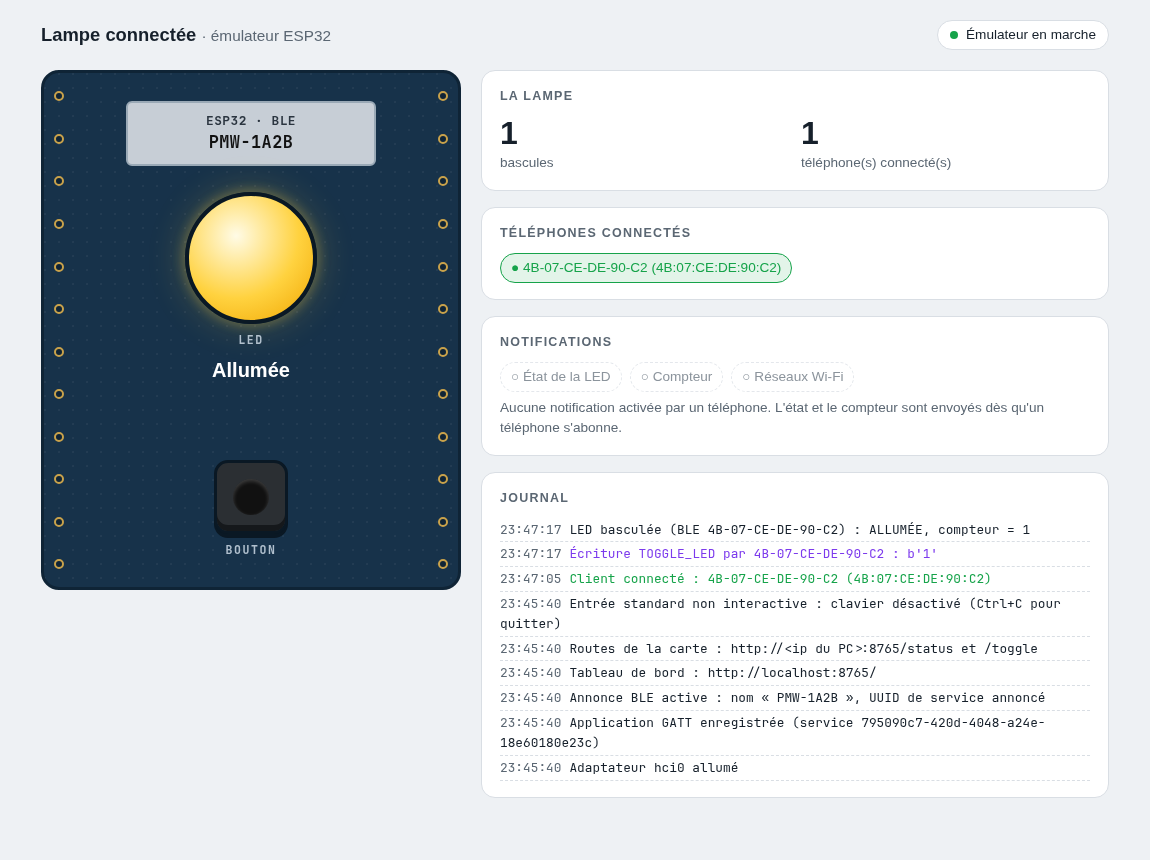
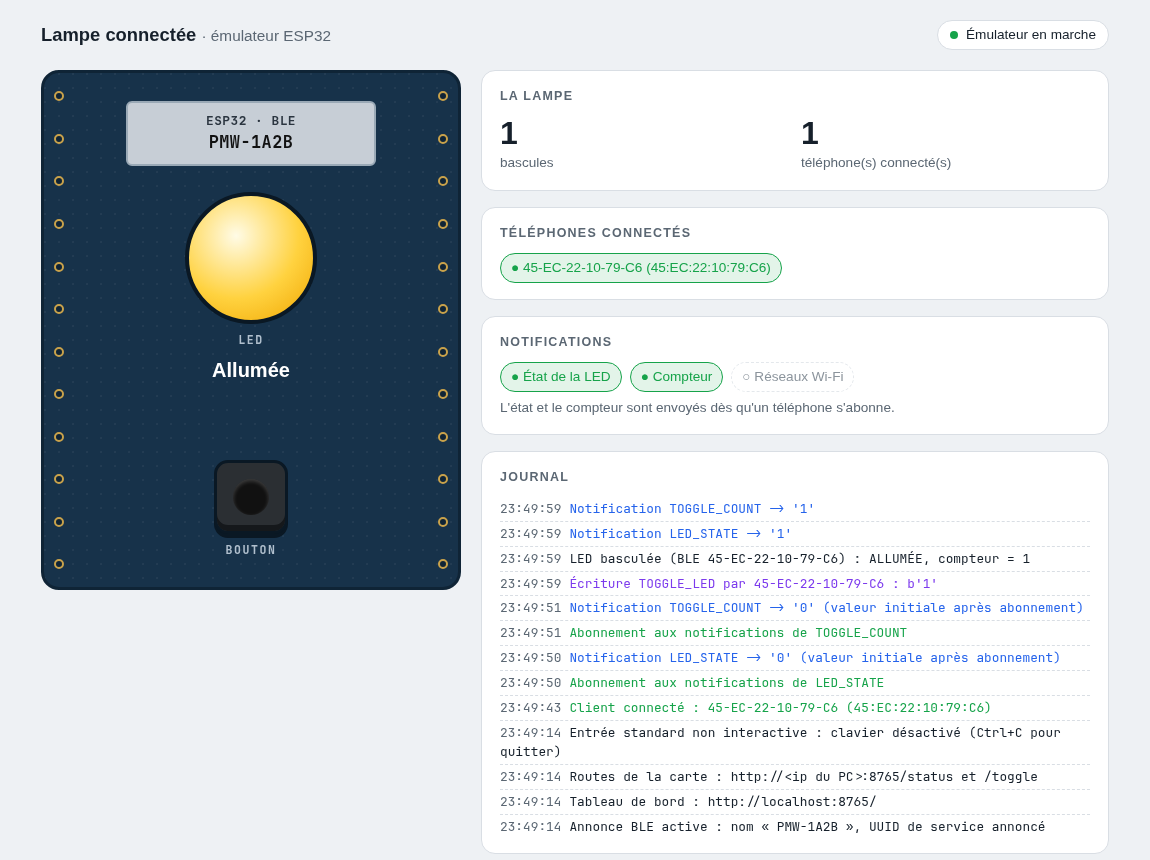
TP BLE : capture de l'abonnement aux notifications sur le tableau de bord de l'émulateur

diff --git a/tp/android/compose/android-ble-nordic.md b/tp/android/compose/android-ble-nordic.md
@@ -103,7 +103,7 @@ Vous retrouverez ainsi votre lampe immédiatement dans votre application.
 
 :::
 
-Quand votre téléphone écrit sur la lampe, le tableau de bord le montre : le téléphone apparaît dans « Téléphones connectés », la LED s'allume, et le journal affiche l'écriture reçue (`b'1'`) puis la bascule.
+Quand votre téléphone écrit sur la lampe, le tableau de bord le montre : le téléphone apparaît dans « Téléphones connectés », la LED s'allume, et le journal affiche l'écriture reçue (`b'1'`), la bascule, puis les notifications envoyées aux téléphones abonnés.
 
 ![Le tableau de bord après une écriture depuis le téléphone : la LED est allumée et le journal montre l'écriture](./img/ble/emulateur_bascule_telephone.png)
 
@@ -792,6 +792,10 @@ fun ConnectedScreen(
 Connecté à votre lampe, appuyez sur le **bouton** de la lampe (sur le tableau de bord de l'émulateur) : le cercle doit passer au jaune et le compteur augmenter, sans toucher au téléphone.
 
 Si l'écran affiche « État de la LED inconnu » juste après la connexion, c'est normal : ces caractéristiques ne se lisent pas, elles se notifient. L'état apparaît au premier changement.
+
+Côté lampe, le tableau de bord de l'émulateur confirme l'abonnement : « État de la LED » et « Compteur » passent au vert dans « Notifications ».
+
+![Le tableau de bord quand le téléphone a activé les notifications de l'état de la LED et du compteur](./img/ble/emulateur_telephone_connecte.png)
 
 :::
 

diff --git a/tp/android/compose/android-ble.md b/tp/android/compose/android-ble.md
@@ -163,7 +163,7 @@ L'objectif est d'identifier **votre** périphérique. Pour cela, nous allons reg
 
 :::
 
-Quand votre téléphone écrit sur la lampe, le tableau de bord le montre : le téléphone apparaît dans « Téléphones connectés », la LED s'allume, et le journal affiche l'écriture reçue (`b'1'`) puis la bascule.
+Quand votre téléphone écrit sur la lampe, le tableau de bord le montre : le téléphone apparaît dans « Téléphones connectés », la LED s'allume, et le journal affiche l'écriture reçue (`b'1'`), la bascule, puis les notifications envoyées aux téléphones abonnés.
 
 ![Le tableau de bord après une écriture depuis le téléphone : la LED est allumée et le journal montre l'écriture](./img/ble/emulateur_bascule_telephone.png)
 
@@ -802,6 +802,14 @@ La file `notificationsToEnable` règle le problème : chaque fois qu'Android con
 ::: tip À vous
 
 Je vous laisse implémenter cette méthode dans votre ViewModel.
+
+:::
+
+::: tip Point de contrôle
+
+Sur le tableau de bord de l'émulateur, « État de la LED » et « Compteur » passent au vert dans « Notifications » : votre application est bien abonnée. Si une seule pastille est verte, l'activation s'est arrêtée en route (voir l'encadré « Une seule opération GATT à la fois »).
+
+![Le tableau de bord quand le téléphone a activé les notifications de l'état de la LED et du compteur](./img/ble/emulateur_telephone_connecte.png)
 
 :::
 

diff --git a/public/cours/sources/android_ble/slides.md b/public/cours/sources/android_ble/slides.md
@@ -60,6 +60,12 @@ Avant de rentrer dans le détail, que fait notre objet ?
 
 ---
 
+## Le téléphone s'abonne aux notifications
+
+![Le téléphone est connecté et a activé les notifications](./img/emulateur_telephone_connecte.png)
+
+---
+
 ## Une écriture depuis le téléphone
 
 ![Le téléphone écrit 1 : la LED s'allume, le journal montre l'écriture](./img/emulateur_bascule_telephone.png)
